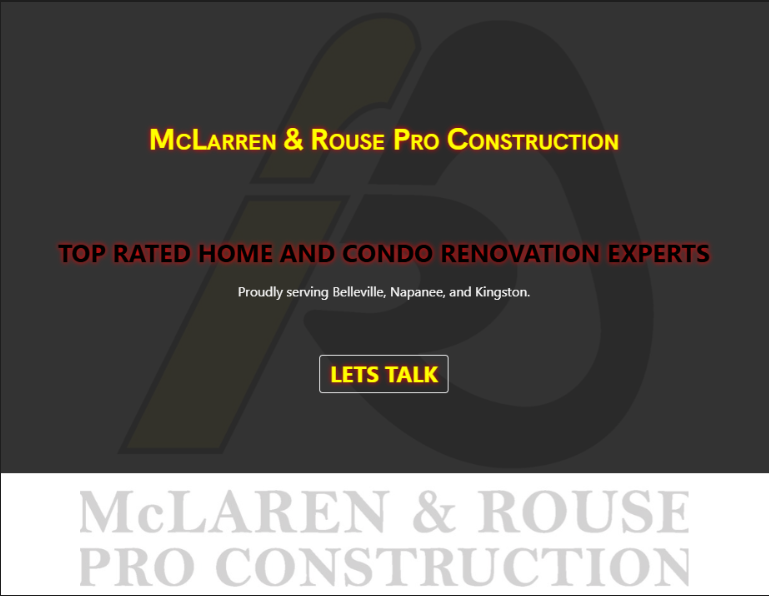
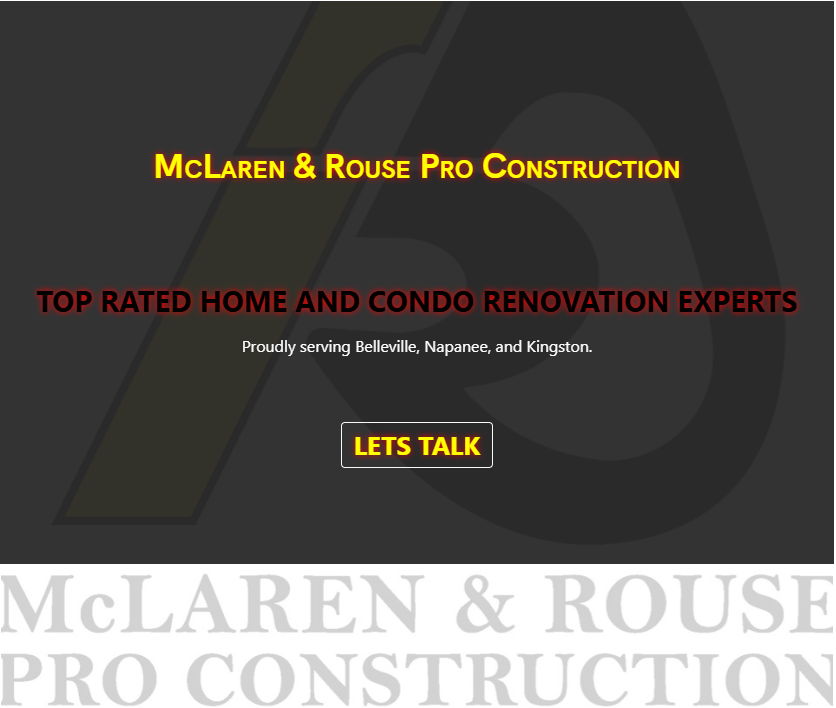
UPdate: image for MrPRo construction

diff --git a/src/components/webApps/WebApps.js b/src/components/webApps/WebApps.js
@@ -143,7 +143,7 @@ const WebApps = function () {
 <RowCard dataUrl1="https://pauloconnell.github.io/testCenter/" link1={null} header1="Test Center 2017-2020" title1="Delivers specific information for every item on sales floor and organizes similar models to increase sales conversions"
           imgSrc1="/profile2/images/testCenter.png" imgAlt1="Test Center app screenshot" footer1="Product Knowledge App used in multiple Retail Store Locations"
           link2="https://mrproconstruction.glitch.me/" header2="M.R.Pro Construction" title2="Landing page for Construction Company"
-          imgSrc2="/profile2/images/MRPro.PNG" imgAlt2="M.R. PRO Construction" footer2="Website for a Construction Company 'McLaren Rouse Pro Construction'" />
+          imgSrc2="/profile2/images/mrPro.png" imgAlt2="M.R. PRO Construction" footer2="Website for a Construction Company 'McLaren Rouse Pro Construction'" />
 
 {/* 
 
